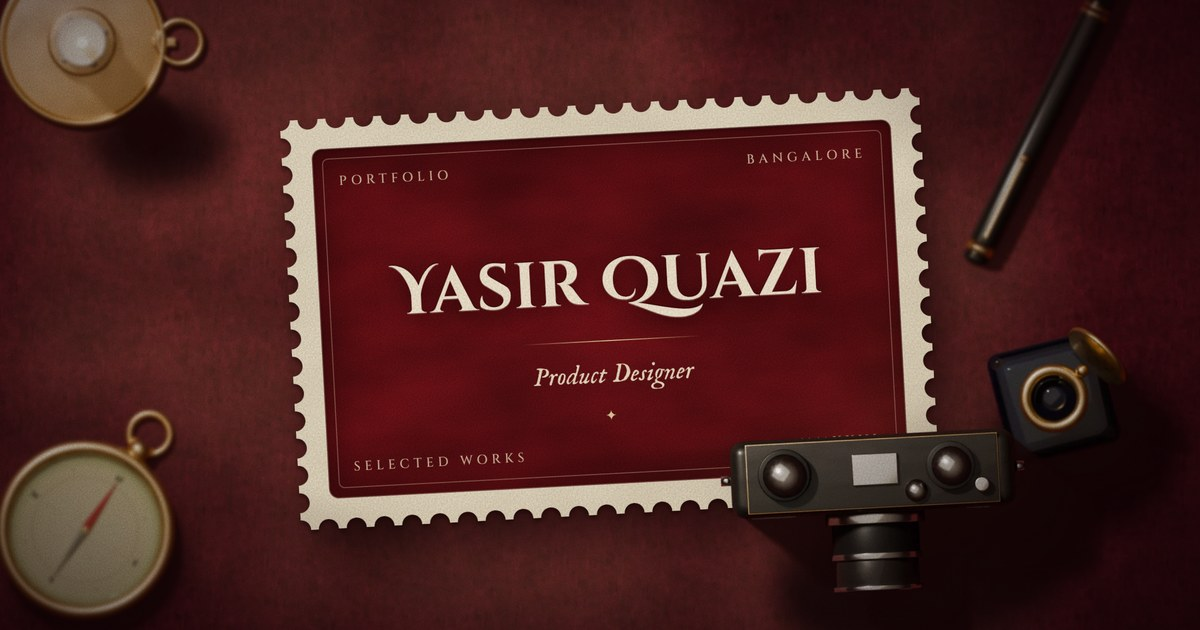
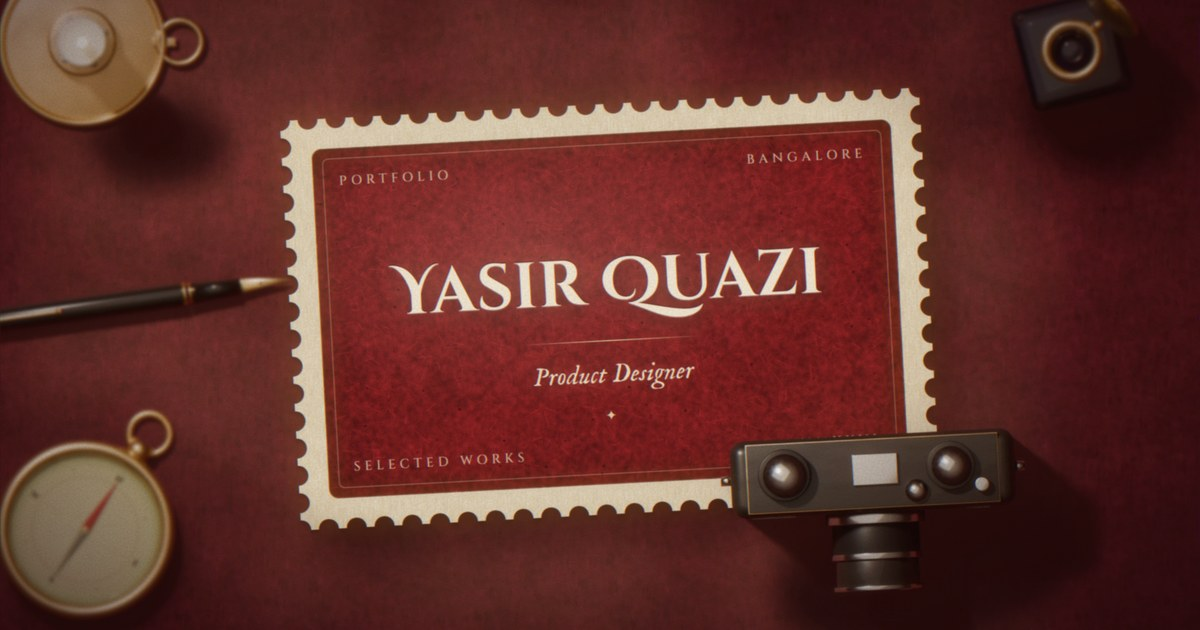
Link preview: paper-textured stamp, recomposed desk, film bloom
Claude-Session: https://claude.ai/code/session_01XcnjLw6GwdcrqeYkQ1XjUC

diff --git a/tools/og/share-image.py b/tools/og/share-image.py
@@ -32,6 +32,9 @@ def obj(name, x, y, w, rot=0, blur=0, ao=(0, 0, 0, 0), op=1):
         f'<img src="{T}/{name}.webp" style="position:relative;display:block;width:100%"></div>')
 
 SW, SH = 640, 410
+PAPER = '/home/claude/render/out/paper-landscape.png'
+def fibres(op, seed):
+    return svg_url(f"<svg xmlns='http://www.w3.org/2000/svg' width='500' height='500'><filter id='f'><feTurbulence type='fractalNoise' baseFrequency='.9 .06' numOctaves='3' seed='{seed}' stitchTiles='stitch'/><feColorMatrix values='0 0 0 0 .25 0 0 0 0 .15 0 0 0 0 .08 0 0 0 {op} -.05'/></filter><rect width='500' height='500' filter='url(#f)'/></svg>")
 html = f"""<!doctype html><html><head><meta charset="utf-8"><style>
 @font-face{{font-family:'Cinzel Decorative';font-weight:700;src:url({F}/cinzel-decorative-latin-700-normal.woff2)}}
 @font-face{{font-family:Cinzel;font-weight:500;src:url({F}/cinzel-latin-500-normal.woff2)}}
@@ -49,11 +52,15 @@ html,body{{margin:0}} img{{max-width:none}}
 /* stamp */
 .stampWrap{{left:290px;top:104px;width:{SW}px;height:{SH}px;transform:rotate(-3deg);filter:drop-shadow(0 3px 2px rgb(20 0 2/.55)) drop-shadow(14px 26px 22px rgb(10 0 2/.6))}}
 .stamp{{inset:0;background:#efe3c8;-webkit-mask:{perforated(SW,SH)};mask:{perforated(SW,SH)}}}
-.stamp::before{{content:'';position:absolute;inset:0;background-image:{mottle(.3,9,'.45 .32 .18','.01 .02')},{grain(.25,.85,'.35 .22 .1')}}}
+.stamp::before{{content:'';position:absolute;inset:0;background:url(/home/claude/og2/paper-tex.png) 0 0/700px auto;mix-blend-mode:overlay;opacity:.85}}
+.stamp .tex{{inset:0;background-image:{fibres(.35,5)},{grain(.3,.85,'.35 .22 .1')};mix-blend-mode:multiply}}
 .stamp::after{{content:'';position:absolute;inset:0;background:radial-gradient(120% 120% at 30% 25%,transparent 55%,rgb(110 70 30/.25) 100%)}}
-.field{{left:30px;top:30px;right:30px;bottom:30px;border-radius:10px;background:#7a1218;background-image:{mottle(.55,2)},{grain(.35,.8,'0 0 0')};
+.field{{left:30px;top:30px;right:30px;bottom:30px;border-radius:10px;overflow:hidden;background:#8a1a1f;
   box-shadow:inset 0 0 0 1px rgb(240 220 190/.25),inset 0 0 50px rgb(20 0 2/.65),inset 0 2px 3px rgb(0 0 0/.4)}}
 .field::after{{content:'';position:absolute;inset:10px;border:1px solid rgb(240 220 190/.3);border-radius:6px}}
+.ftex{{inset:0;background:url(/home/claude/og2/paper-tex.png) -30px -30px/700px auto;mix-blend-mode:overlay;opacity:1}}
+.ftex2{{inset:0;background-image:{fibres(.5,8)},{grain(.4,.8,'0 0 0')};mix-blend-mode:multiply}}
+.fwash{{inset:0;background:radial-gradient(90% 80% at 35% 30%,rgb(255 200 170/.16),transparent 60%),radial-gradient(120% 120% at 50% 50%,transparent 50%,rgb(30 0 4/.5) 100%)}}
 .k{{font:500 13px Cinzel;letter-spacing:.32em;text-transform:uppercase;color:#ecd3ad;opacity:.85}}
 .nm{{left:0;right:0;top:118px;text-align:center;font:700 64px/1 'Cinzel Decorative';color:#f6e7cc;
   text-shadow:0 1px 0 rgb(255 240 210/.25),0 -1px 0 rgb(40 0 4/.6),0 6px 18px rgb(20 0 2/.55)}}
@@ -64,10 +71,10 @@ html,body{{margin:0}} img{{max-width:none}}
 <div class="abs desk-tone"></div>
 <img class="abs shade" src="{T}/window-shade.webp"><img class="abs light" src="{T}/window-light.webp">
 {obj('candle', -20, -60, 330, 0, 1.4, (110, 160, 140, 90), .97)}
-{obj('pen', 860, -70, 430, -32, 1.6)}
+{obj('pen', -40, 190, 340, 24, 1.4)}
 {obj('compass', -50, 370, 290, 16, 1.6, (60, 110, 170, 160))}
-<div class="abs stampWrap"><div class="abs stamp">
-  <div class="abs field">
+<div class="abs stampWrap"><div class="abs stamp"><div class="abs tex"></div>
+  <div class="abs field"><div class="abs ftex"></div><div class="abs ftex2"></div><div class="abs fwash"></div>
     <div class="abs k" style="left:26px;top:24px">Portfolio</div>
     <div class="abs k" style="right:26px;top:24px">Bangalore</div>
     <div class="abs nm">Yasir Quazi</div>
@@ -78,7 +85,7 @@ html,body{{margin:0}} img{{max-width:none}}
     <div class="abs k" style="right:26px;bottom:22px">MMXXVI</div>
   </div>
 </div></div>
-{obj('inkwell', 965, 300, 250, 0, 0.6, (30, 70, 190, 160))}
+{obj('inkwell', 990, -40, 230, 0, 1.2, (30, 70, 170, 150))}
 {obj('camera', 720, 385, 420, -12, 0, (50, 110, 320, 150))}
 <div class="abs vig"></div><div class="abs grain"></div><div class="abs grain2"></div>
 </div></body></html>"""
@@ -88,6 +95,14 @@ with sync_playwright() as p:
     pg = b.new_page(viewport={'width': 1200, 'height': 630}, device_scale_factor=2)
     pg.goto('file:///home/claude/og2/desk.html'); pg.wait_for_timeout(1000)
     pg.screenshot(path='/home/claude/og2/desk@2x.png'); b.close()
+from PIL import ImageFilter, ImageChops, ImageEnhance
 im = Image.open('/home/claude/og2/desk@2x.png').convert('RGB')
+hi = im.point(lambda v: max(0, v - 150) * 2.4).filter(ImageFilter.GaussianBlur(28))
+im = ImageChops.screen(im, ImageEnhance.Brightness(hi).enhance(0.55))
+halo = im.filter(ImageFilter.GaussianBlur(6)); im = Image.blend(im, ImageChops.screen(im, halo), 0.12)
+im = im.filter(ImageFilter.GaussianBlur(0.9))
+r, g, b = im.split(); r = ImageChops.offset(r, 1, 0); b = ImageChops.offset(b, -1, 0); im = Image.merge('RGB', (r, g, b))
+lift = Image.new('RGB', im.size, (14, 6, 4)); im = ImageChops.add(im, lift, scale=1.0, offset=0) if False else ImageChops.screen(im, lift)
+im.save('/home/claude/og2/desk@2x.png')
 im.resize((1200, 630), Image.LANCZOS).save('/home/claude/og2/desk.png')
 print('ok')
